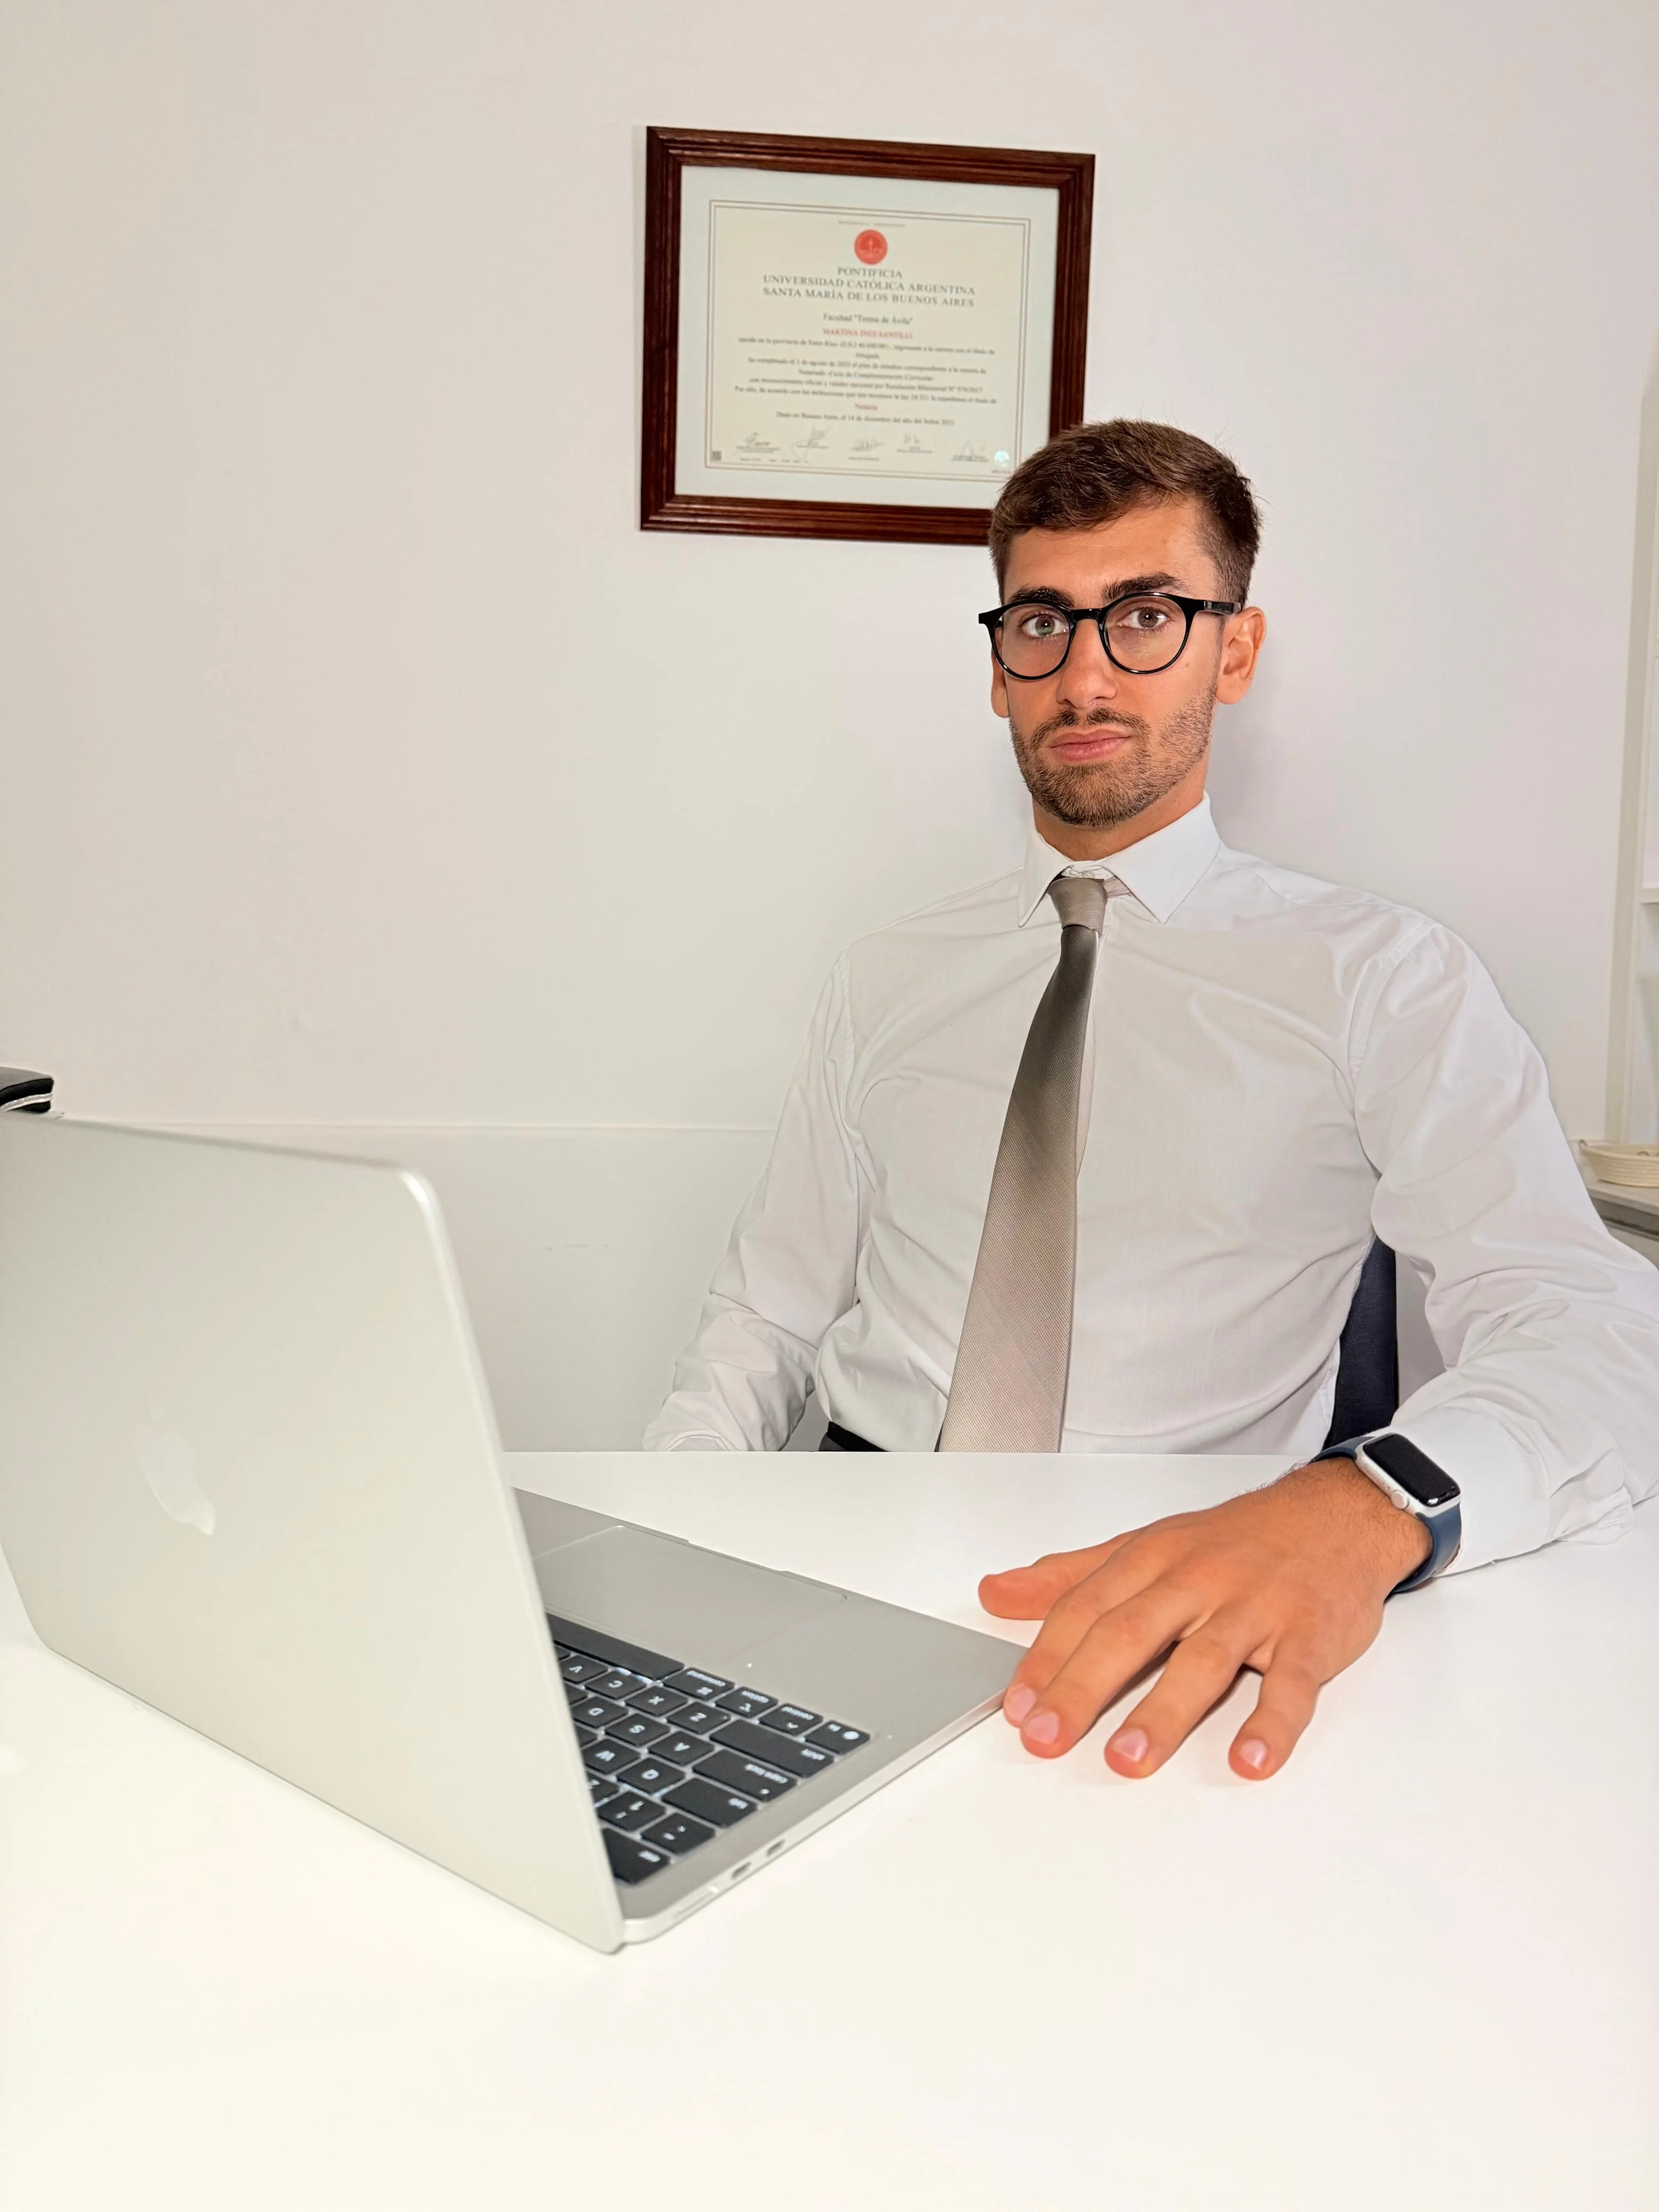
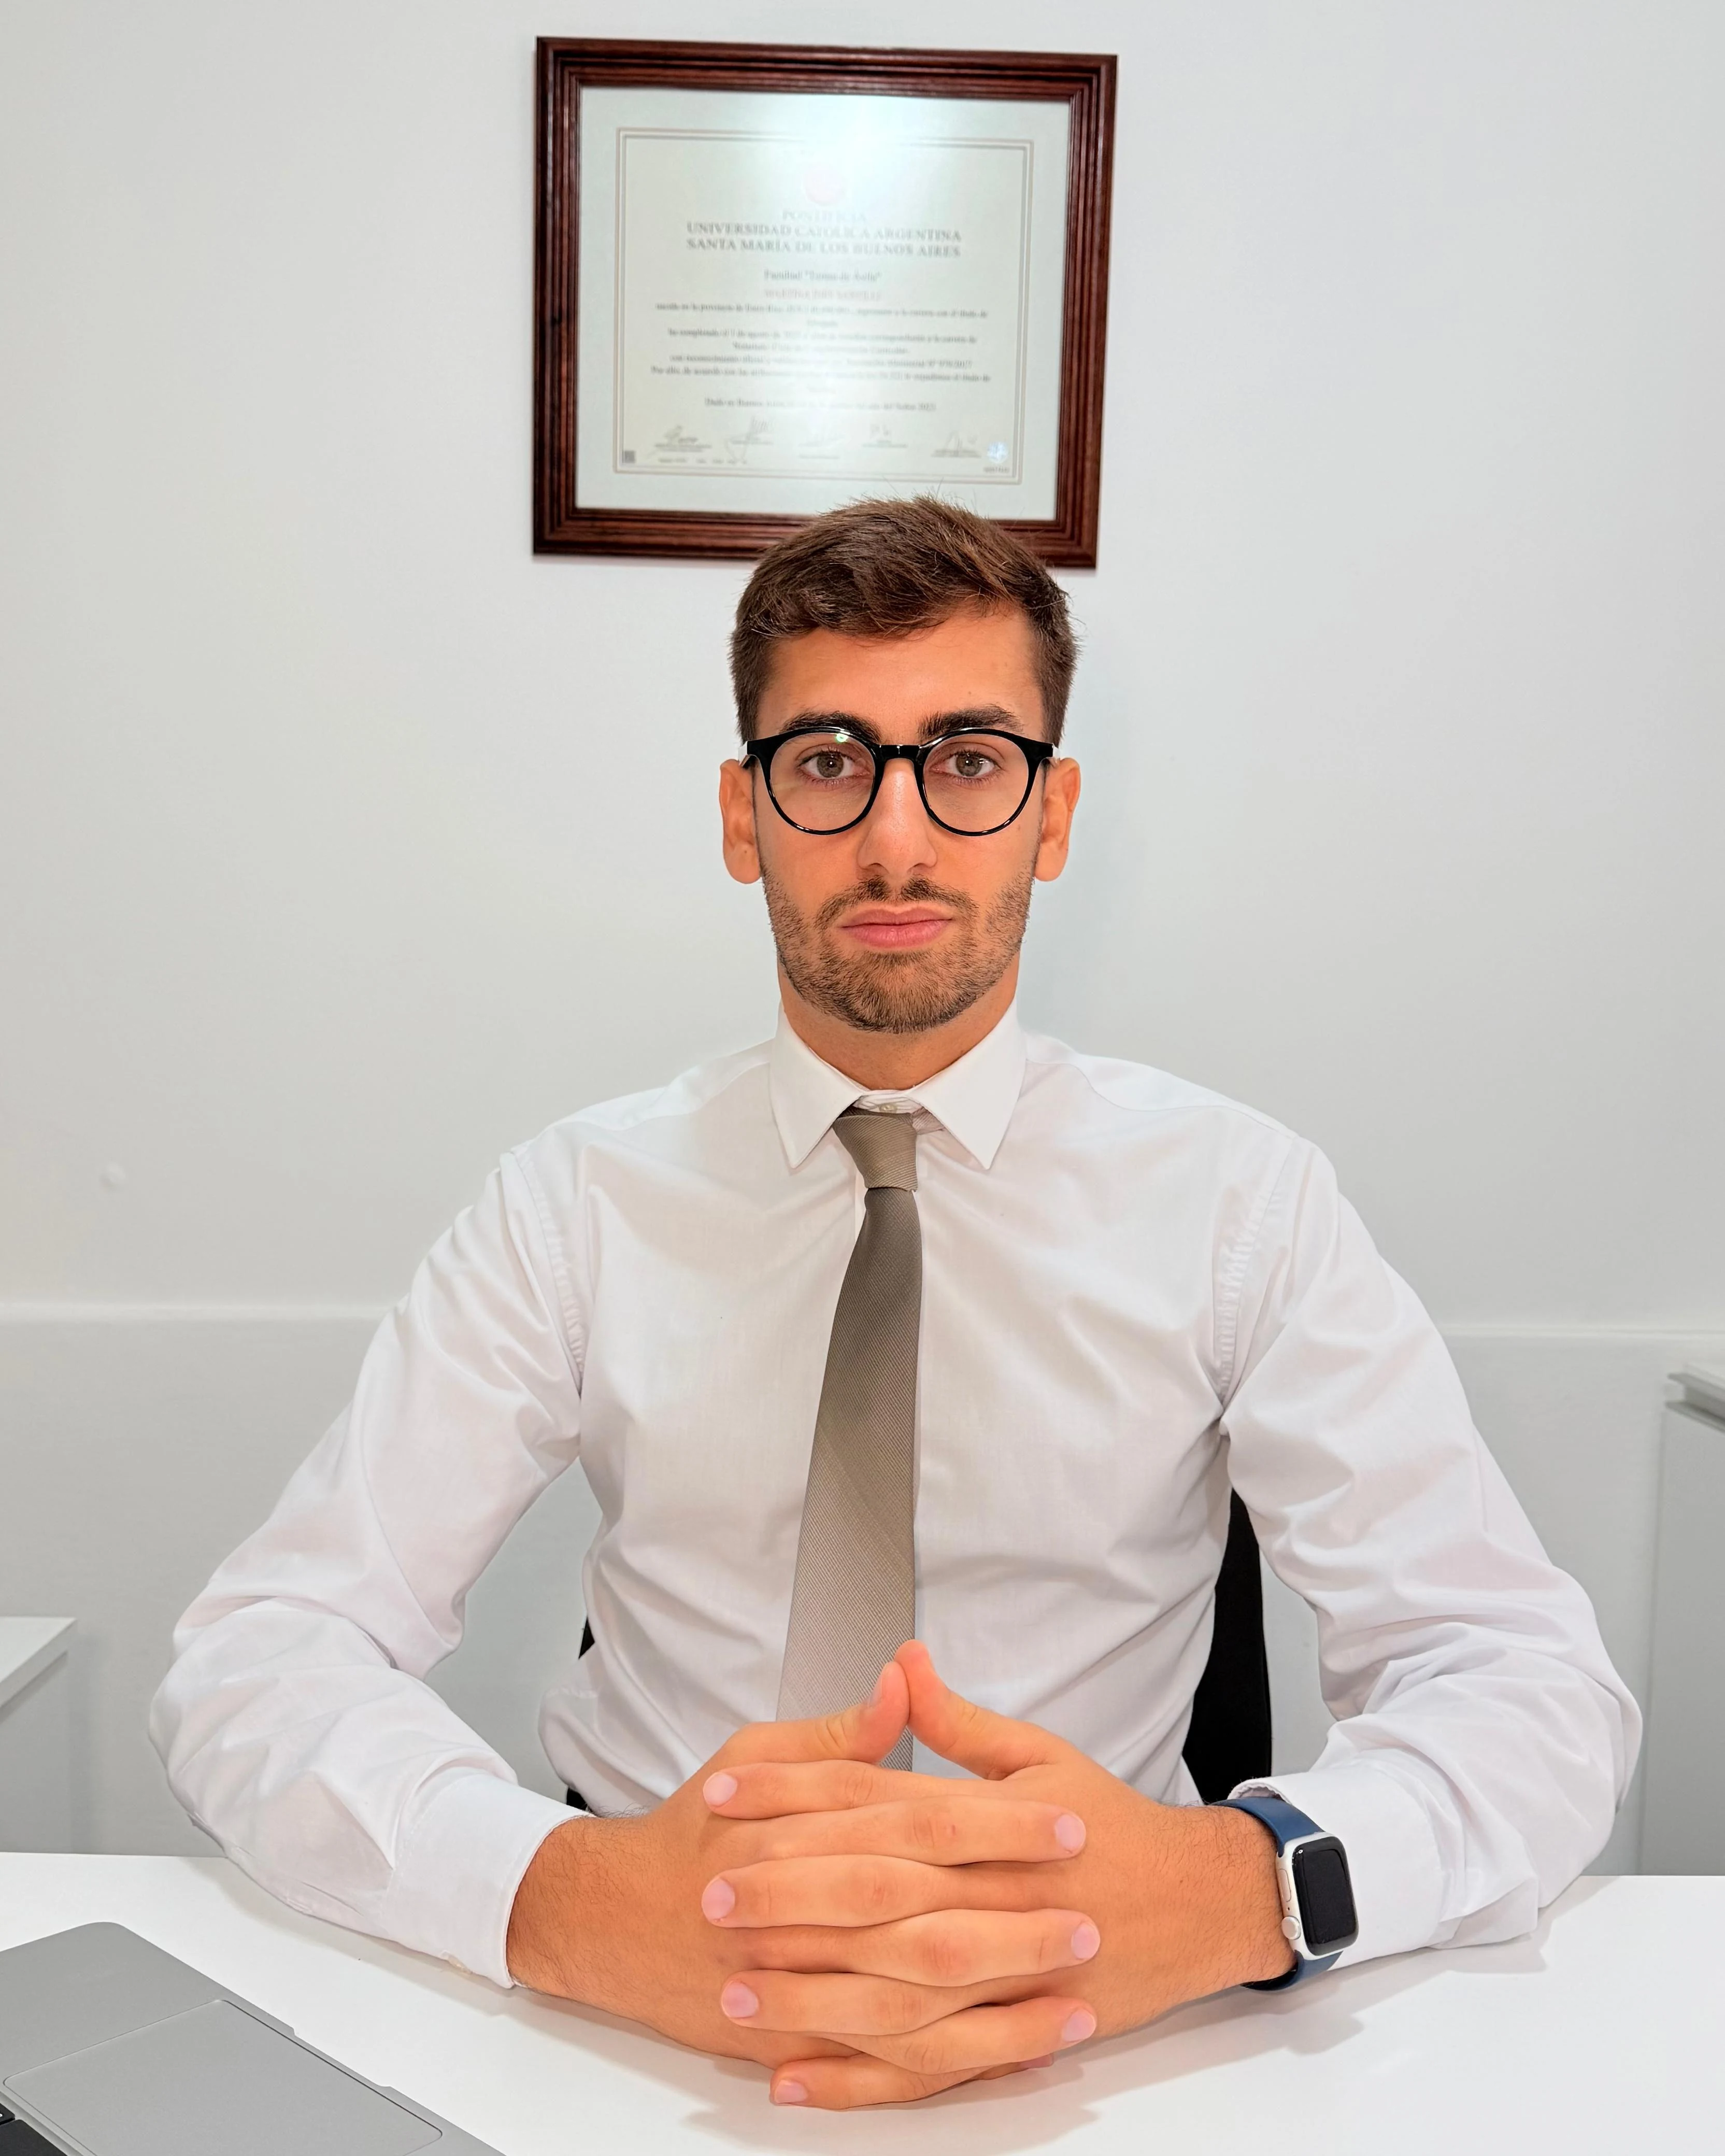
profile pic and wsp number

diff --git a/src/components/WhatsAppFAB.tsx b/src/components/WhatsAppFAB.tsx
@@ -5,7 +5,7 @@ import { MessageCircle } from "lucide-react";
 export default function WhatsAppFAB() {
   return (
     <a
-      href="https://wa.me/5434300000000?text=Hola%2C%20me%20gustar%C3%ADa%20consultar%20sobre..."
+      href="https://wa.me/543435169006?text=Hola%2C%20me%20gustar%C3%ADa%20consultar%20sobre..."
       target="_blank"
       rel="noopener noreferrer"
       aria-label="Contactar por WhatsApp"

diff --git a/src/components/sections/Team.tsx b/src/components/sections/Team.tsx
@@ -16,7 +16,7 @@ const members = [
   },
   {
     photo: "/profile_1.webp",
-    imageClass: "object-cover scale-[1.4] object-top",
+    imageClass: "object-cover",
     name: "Luis Ernesto Martino",
     role: "Abogado",
     matricula: "Mat. 11252",